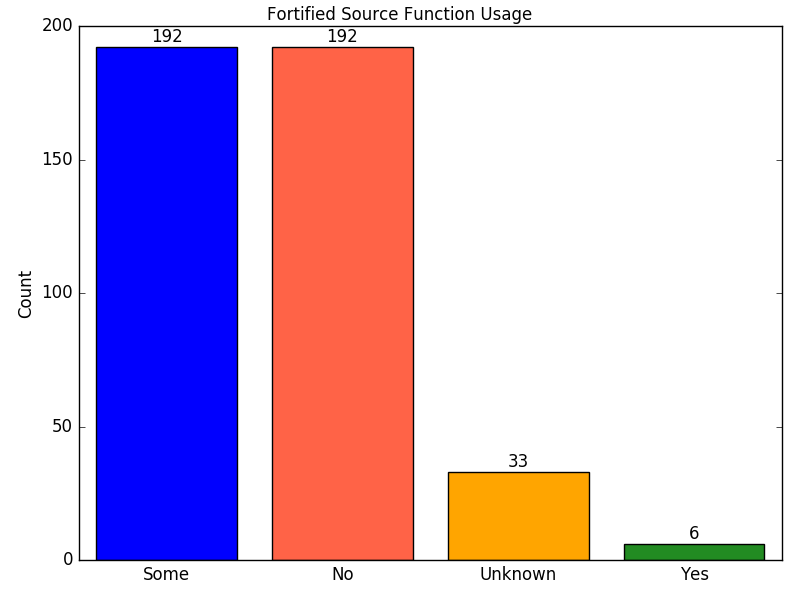
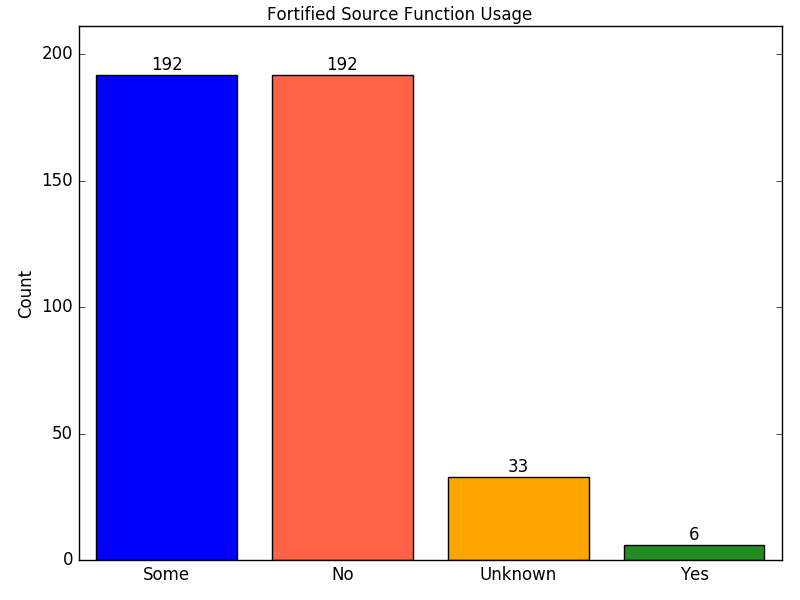
Added introduction points graph.

diff --git a/infra/src/graph_generator.py b/infra/src/graph_generator.py
@@ -11,7 +11,8 @@ import scipy.stats
 class GraphGenerator:
    def __init__(self, data_file, output_file, graph_type,
                 title, x_axis_label, y_axis_label, render_local,
-                groups, default_color, num_bins, cycle_colors):
+                groups, default_color, num_bins, cycle_colors,
+                slant):
       # Constructor arguments.
       self._data_file = data_file
       self._output_file = output_file
@@ -24,6 +25,7 @@ class GraphGenerator:
       self._default_color = default_color
       self._num_bins = num_bins
       self._cycle_colors = cycle_colors
+      self._slant = slant
 
       # Internal state.
       self._data = None
@@ -67,7 +69,8 @@ class GraphGenerator:
       plt.xticks(y_pos, x_data)
 
       # Add values on top of the bars.
-      height_offset = 0.02 * max(y_data.astype(np.int))
+      max_bar = max(y_data.astype(np.int))
+      height_offset = 0.02 * max_bar
       for i, v in enumerate(y_data):
          plt.text(x_pos[i], int(v) + height_offset, str(v),
                   ha='center', va='center')
@@ -77,6 +80,14 @@ class GraphGenerator:
 
       # Set layout.
       plt.tight_layout()
+
+      # Set y-lim based on max bar value.
+      axes = plt.gca()
+      axes.set_ylim([0, max_bar * 1.1])
+
+      if self._slant:
+         # Slant the x-axis labels.
+         plt.setp(axes.get_xticklabels(), fontsize=10, rotation=40)
 
       # Render graph.
       if self._render_local:
@@ -199,6 +210,8 @@ if __name__ == '__main__':
                        type=int, default=1000)
    parser.add_argument('--cycle-colors', help='use multiple colors for bar graph',
                        action='store_true')
+   parser.add_argument('--slant', help='slant x-axis labels in bar graph',
+                       action='store_true')
    args = parser.parse_args()
 
    if not args.render_local:
@@ -208,5 +221,5 @@ if __name__ == '__main__':
    g = GraphGenerator(args.data_file, args.output_file, args.graph_type,
                       args.title, args.x_axis_label, args.y_axis_label,
                       args.render_local, args.groups, args.color, args.num_bins,
-                      args.cycle_colors)
+                      args.cycle_colors, args.slant)
    g.run()
